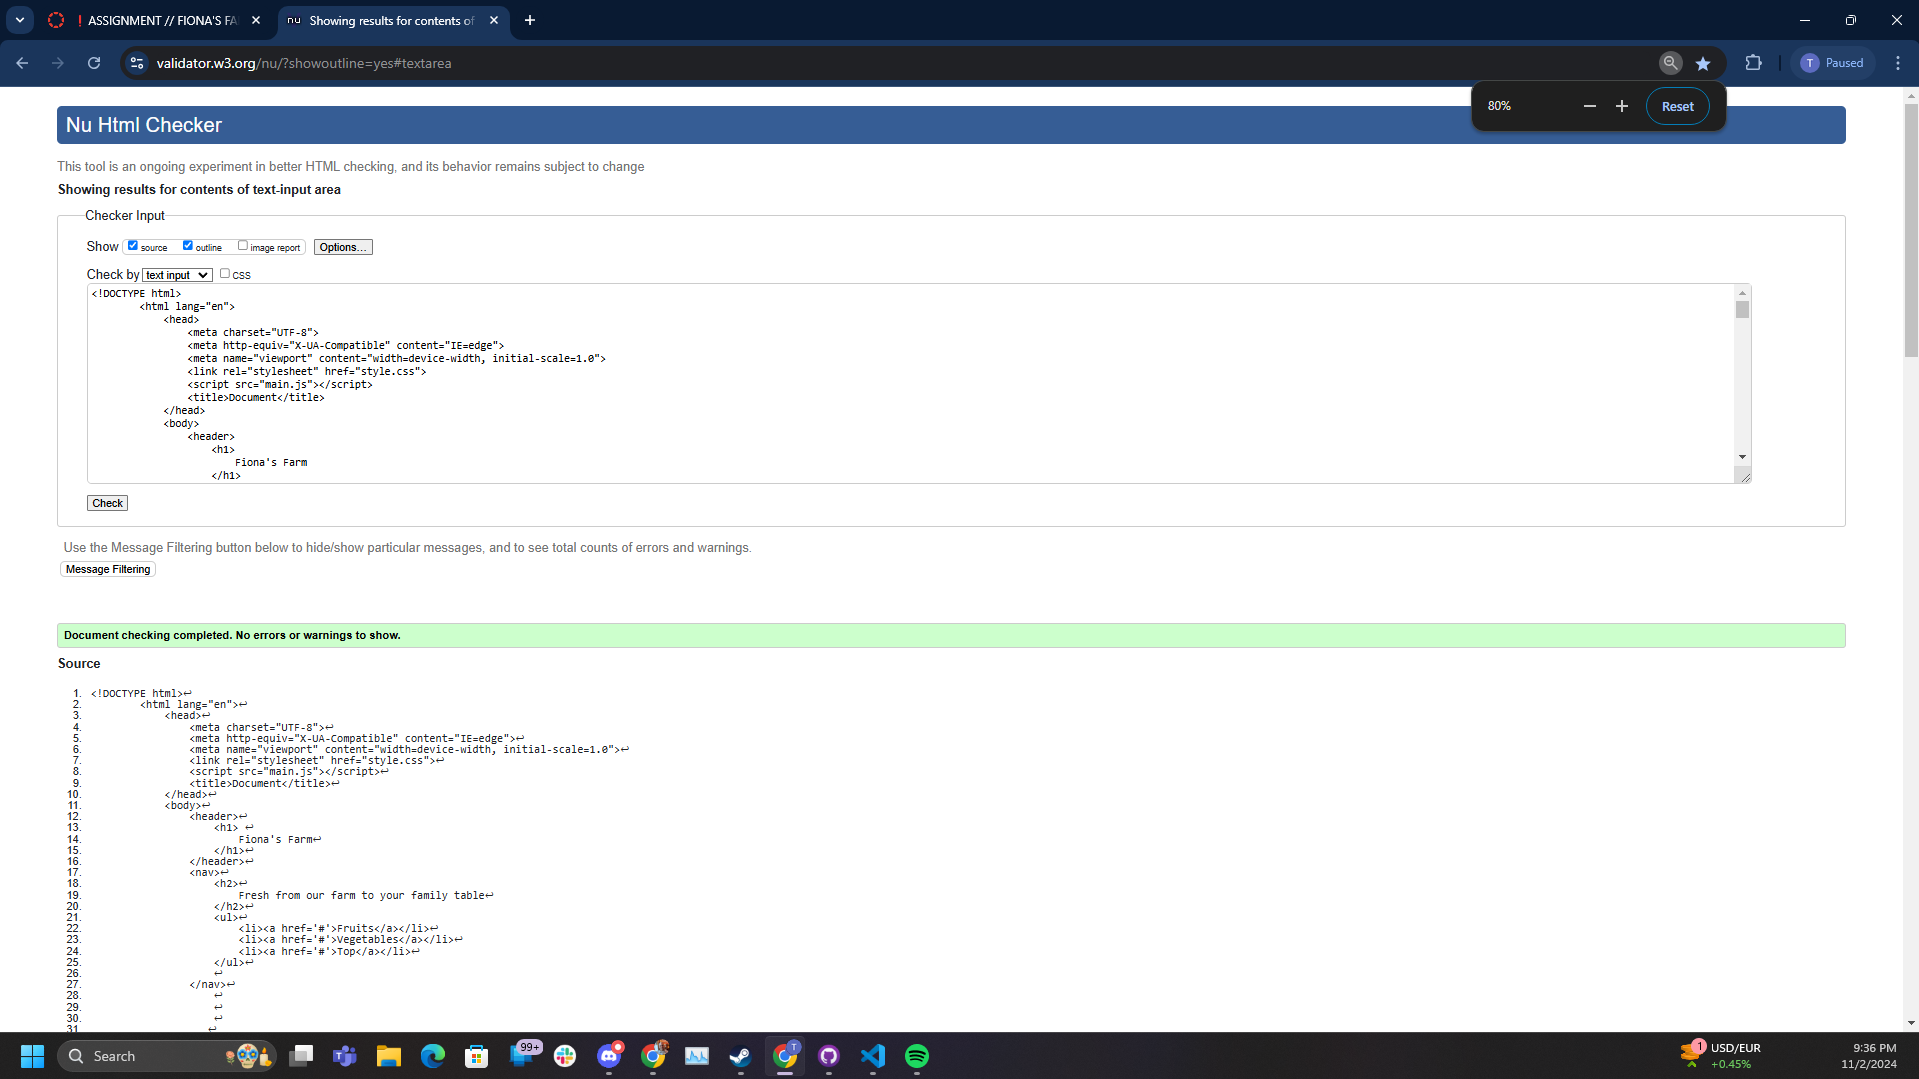
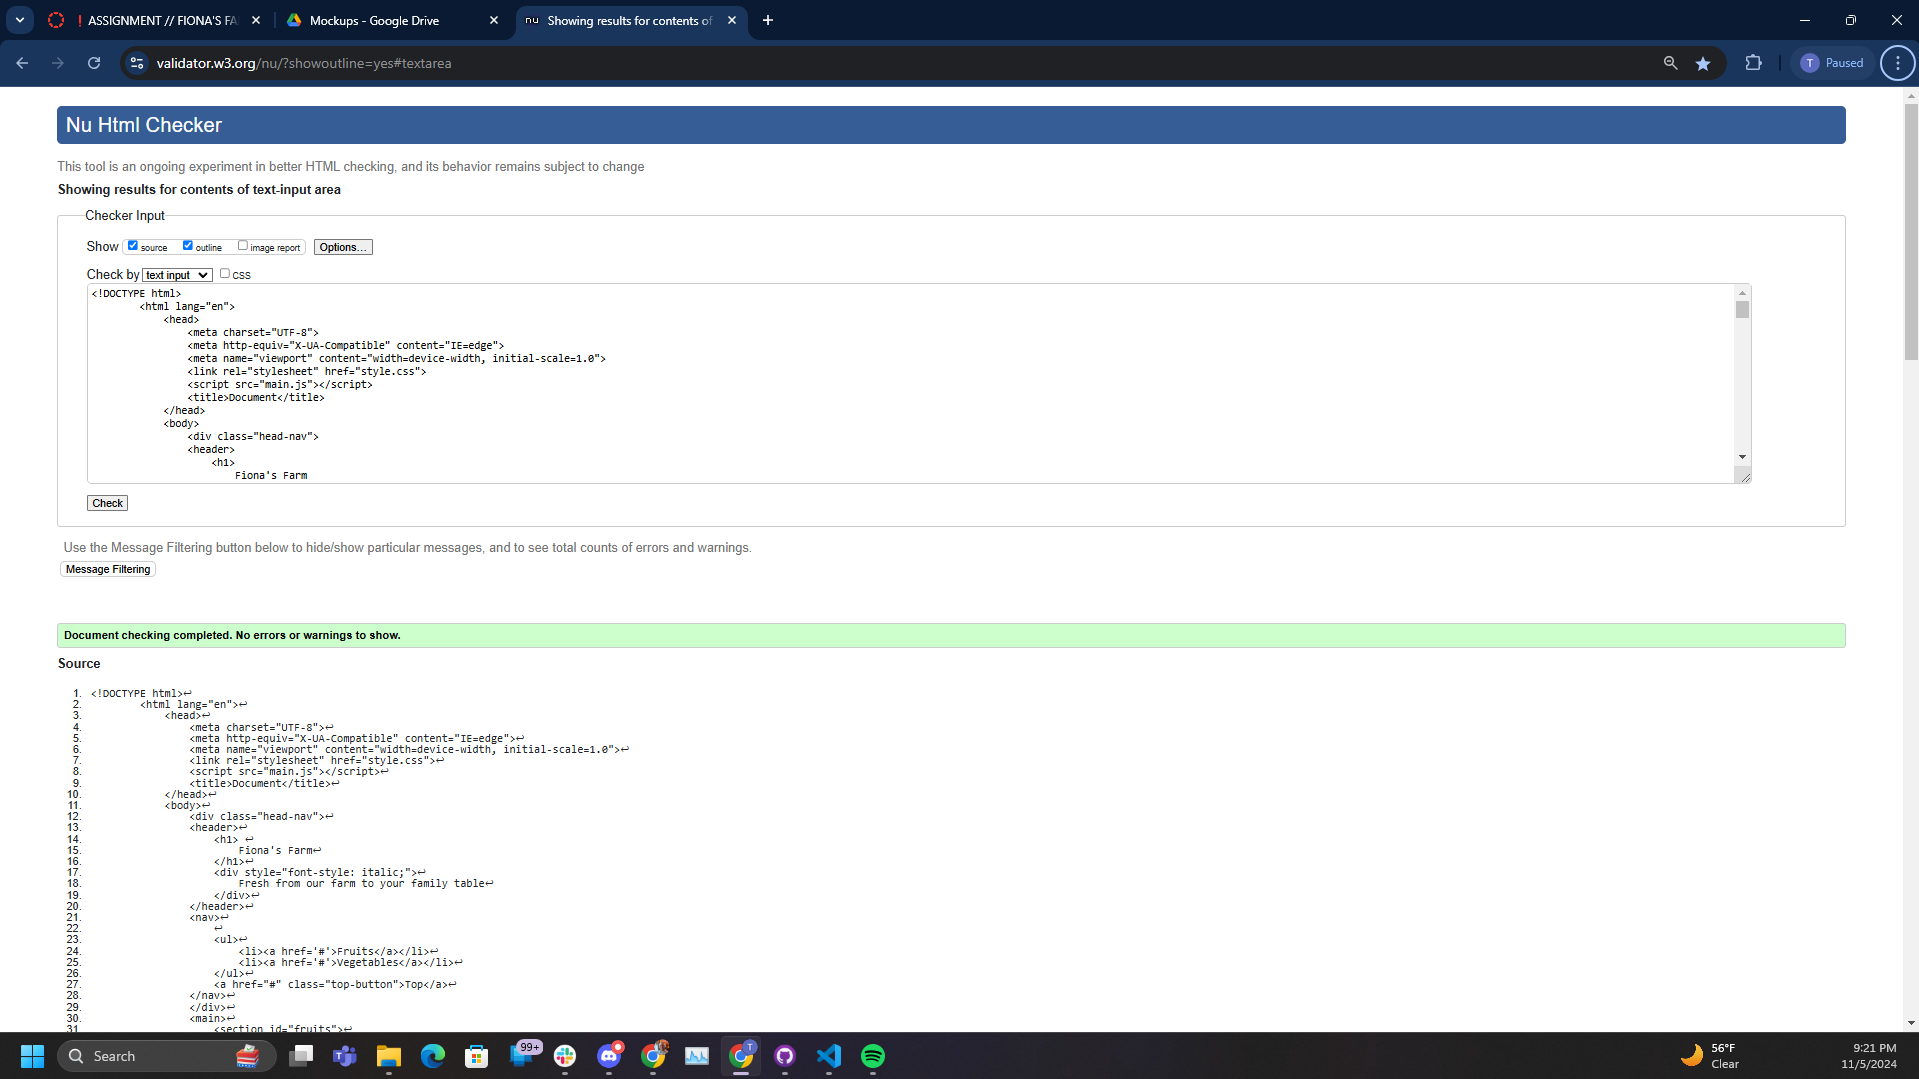
Finished and validated
Finalized responsive css and validated code

diff --git a/index.html b/index.html
@@ -9,6 +9,7 @@
                 <title>Document</title>
             </head>
             <body>
+                <div class="head-nav">
                 <header>
                     <h1> 
                         Fiona's Farm
@@ -25,13 +26,13 @@
                     </ul>
                     <a href="#" class="top-button">Top</a>
                 </nav>
-                
+                </div>
                 <main>
                     <section id="fruits">
                         <h2>Fruits</h2>
                         <p>Welcome to our farm, where we take pride in growing a variety of delicious and nutritious fruits. Our commitment to sustainable farming practices ensures that every bite of our fruit is bursting with natural flavor and goodness. From the orchard to your table, we offer a selection of fresh, hand-picked fruits that are perfect for snacking, baking, and cooking. Experience the taste of nature's bounty with our premium quality fruits.</p>
-                        
                         <h3>Fruits for Sale</h3>
+                        <div id="fruit-pics">
                         <figure>
                             <img src="images/apples.png" alt="Image of apples"> 
                             <figcaption>Apples</figcaption>
@@ -103,6 +104,7 @@
                             <img src="images/cantalopes.png" alt="Image of Cantaloupes"> 
                             <figcaption>Cantaloupes</figcaption>
                         </figure>
+                    </div>
                         
                     </section>
                    
@@ -113,7 +115,7 @@
                     <p>At our farm, we are dedicated to growing a diverse array of vegetables that are both healthy and delicious. Our vegetables are cultivated using sustainable and eco-friendly methods to ensure the highest quality and flavor. Whether you are looking to create a fresh salad, cook a hearty meal, or simply enjoy a nutritious snack, our farm-fresh vegetables are the perfect choice. Taste the difference of locally grown produce with our vibrant and wholesome vegetables.</p>
                     
                     <h3>Vegetables for Sale</h3>
-                    
+                    <div id="veg-pics">
                     <figure>
                         <img src="images/broccoli.png" alt="Image of Broccoli"> 
                         <figcaption>Broccoli</figcaption>
@@ -182,18 +184,18 @@
                         <img src="images/radish.png" alt="Image of Radish"> 
                         <figcaption>Radish</figcaption>
                     </figure>
-                    
+                </div>
                 </section>
                 </main>
                 <footer>
-                    <h3>Contact</h3>
-                    <address>
+                    <section id="contact">
+                    <h3 id="footer-contact">Contact</h3>
                     <p>1234 Fake Street,</p>
                     <p> Mesa, AZ 85111</p>
                     <p><a href="tel:+14805551234">(480) 555-1234</a></p>
-                    </address>
-                    <section>
-                        <h3>Hours</h3>
+                    </section>
+                    <section id="hours">
+                        <h3 id="footer-hours">Hours</h3>
                         <ul>
                             <li>Monday Closed</li>
                             <li>Tuesday 6:00 AM - 2:00PM</li>

diff --git a/style.css b/style.css
@@ -28,6 +28,8 @@ input,select{vertical-align:middle}
     --black-transparent: rgba(0, 0, 0, 0.5);
 }
 /* --------------------GLOBAL STYLES (mobile first/small) --------------------*/
+/* the assignment stated to include this breakpoint, but then there is no css applied to smaller screen sizes so I am making a decision to not include it but representing it here to show that I was aware
+@media (min-width: 428px){}*/
 h1 {
     font-size: 2.5em;
     text-shadow: 2px 2px 5px var(--black);
@@ -79,7 +81,7 @@ nav ul li a{
     color: var(--white); 
     padding: 10px 20px; 
     border-radius: 5px; 
-    z-index: 1000; 
+    z-index: 1; 
     text-decoration: none;
     width:20px;
     height:20px;
@@ -131,7 +133,7 @@ footer{
     text-align: center;
     padding: 20px 0;
 }
-footer section{
+#contact #hours{
     margin-top: 30px;
 }
 footer ul {
@@ -142,16 +144,16 @@ footer ul {
 footer section h3{
     margin-bottom: 15px;
 }
-address{
+#contact{
     font-size: 0.8em;
     line-height:0.3;
     margin:0;
 }
-address p{
+#contact p{
     margin: 0;
     padding: 0px 0;
 }
-address a{
+#contact a{
     text-decoration: none;
     color: var(--white);
 }
@@ -162,8 +164,88 @@ small{
     text-align:center;
     background-color: var(--white);
     padding: 10px 0;
-    margin: 0;
 }
+
 /*-------------------- MEDIA QUERY (medium) --------------------------------*/
+@media (min-width: 834px){
+#fruit-pics{
+    display: grid;
+    grid-template-columns: 1fr 1fr;
+}
+#veg-pics{
+    display: grid;
+    grid-template-columns: 1fr 1fr;
+}
+nav ul{
+    display: grid;
+    grid-template-columns: 1fr 1fr;
+    justify-items: center;
+}
+footer {
+    display: flex;
+    justify-content: space-between;
+    padding: 20px;
+}
+footer section {
+    flex: 1;
+    margin-right: 20px;
+}
+footer h3{
+    margin-bottom: 10px;
+}
+}
 /*-------------------- MEDIA QUERY (large) ------------------------------------*/
+@media (min-width: 1280px){
+    #fruit-pics{
+        display: grid;
+        grid-template-columns: 1fr 1fr 1fr;
+    }
+    #veg-pics{
+        display: grid;
+        grid-template-columns: 1fr 1fr 1fr;
+    }
+    header{
+        text-align: left;
+    }
+    nav{
+        display:flex;
+        top: 20px;
+        right: 15px;
+    }
+    nav ul{
+        display: flex;
+        width: 100%;
+    }
+    nav ul li{
+        border: 1px solid var(--white);
+        margin: 0 10px;
+}
+.head-nav{
+    display: grid;
+    grid-template-columns: 1fr 2fr;
+    align-items: center;
+    background-color: var(--green);
+}
+footer {
+    display: grid;
+    grid-template-columns: 1fr 1fr;
+    gap: 20px;
+    padding: 20px;
+}
+footer section{
+    display: grid;
+    grid-template-columns: 1fr 1fr;
+    align-items: center;
+}
+}
 /*-------------------- MEDIA QUERY (xl) ---------------------------------------*/
+@media (min-width: 1440px){
+    #fruit-pics{
+        display: grid;
+        grid-template-columns: 1fr 1fr 1fr 1fr;
+    }
+    #veg-pics{
+        display: grid;
+        grid-template-columns: 1fr 1fr 1fr 1fr;
+    } 
+}
